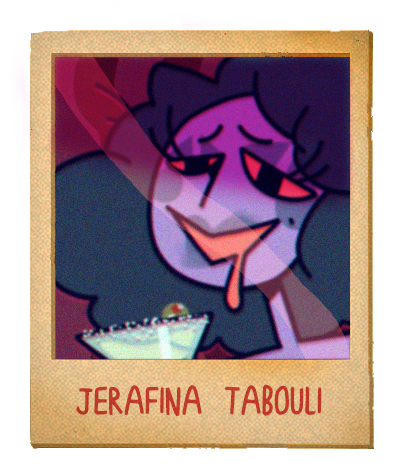
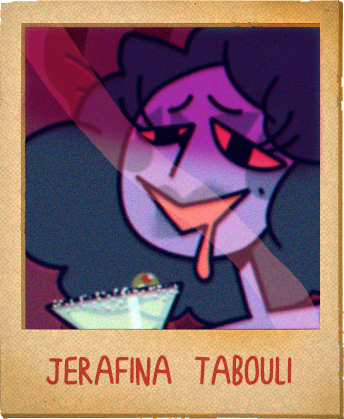
test device compatibility

diff --git a/index.html b/index.html
@@ -82,6 +82,10 @@
     .bioBox {
         border-style: outset;
     }
+    .bioPhoto {
+        margin-left:10px;
+        margin-right:10px;
+    }
 
     .center {
       display: block;
@@ -481,7 +485,7 @@
 
   <div style="height:100px"></div>
 
-  <div class="row">
+  <div class="row" style="padding-left:10px">
       <div class="columnPrimary bioBox bg1">
         <p>
         <span style="color:#22441c;text-shadow: 0px -1px #e3f7c8">
@@ -491,24 +495,24 @@
       </div>
 
       <div class="columnSecondary">
-        <div class="row">
+        <div class="bioPhoto">
           <img src="Images/PhotoJerafina.png" alt="Me!" align = "center" width="100%">
         </div>
         <div class="row">
-          <p style="padding:0px;color:#FFFFFF;font-family:'yugsly'">
+          <p style="color:#FFFFFF;font-family:'yugsly';margin-top:0px;margin-bottom:0px;padding-top:0px;padding-bottom:0px">
             NOOOO I'M TOTALLY NOT NAKED IN THIS PICC... ;-)))
           </p>
         </div>
       </div>
   </div>
 
-  <div class="row">
+  <div class="row" style="padding-right:10px">
     <div class="columnSecondary">
-      <div class="row">
+      <div class="bioPhoto">
         <img src="Images/PhotoPutunia.png" alt="Me!" align = "center" width="100%">
       </div>
       <div class="row">
-        <p style="padding:0px;color:#FFFFFF;font-family:'yugsly'">
+        <p style="color:#FFFFFF;font-family:'yugsly';margin-top:0px;margin-bottom:0px;padding-top:0px;padding-bottom:0px">
           AAAAAAAAAAAAAAAAAAAAAAA
         </p>
       </div>
@@ -523,7 +527,7 @@
     </div>
   </div>
 
-  <div class="row">
+  <div class="row" style="padding-left:10px">
       <div class="columnPrimary bioBox bg3">
         <p>
         <span style="color:#82c67d">
@@ -533,24 +537,24 @@
       </div>
 
       <div class="columnSecondary">
-        <div class="row">
+        <div class="bioPhoto">
           <img src="Images/PhotoRandy.png" alt="Me!" align = "center" width="100%">
         </div>
         <div class="row">
-          <p style="padding:0px;color:#FFFFFF;font-family:'yugsly'">
+          <p style="color:#FFFFFF;font-family:'yugsly';margin-top:0px;margin-bottom:0px;padding-top:0px;padding-bottom:0px">
             I'M JUST A PATHETIC LITTLE GUY.....
           </p>
         </div>
       </div>
   </div>
 
-  <div class="row">
+  <div class="row" style="padding-right:10px">
       <div class="columnSecondary">
-        <div class="row">
+        <div class="bioPhoto">
           <img src="Images/PhotoNat.png" alt="Me!" align = "center" width="100%">
         </div>
         <div class="row">
-          <p style="padding:0px;color:#FFFFFF;font-family:'yugsly'">
+          <p style="color:#FFFFFF;font-family:'yugsly';margin-top:0px;margin-bottom:0px;padding-top:0px;padding-bottom:0px">
             DON'T LOOK AT ME. I'M FAR TOO COOL FOR YOU.
           </p>
         </div>
